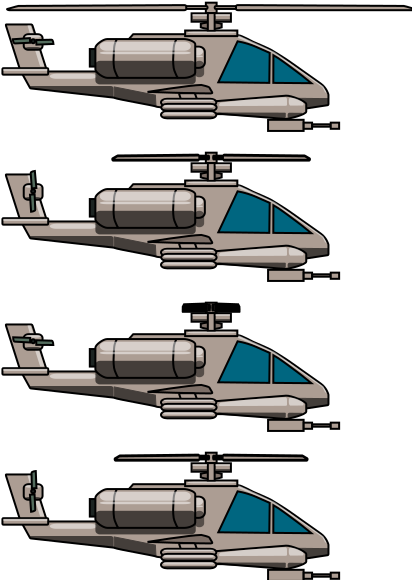
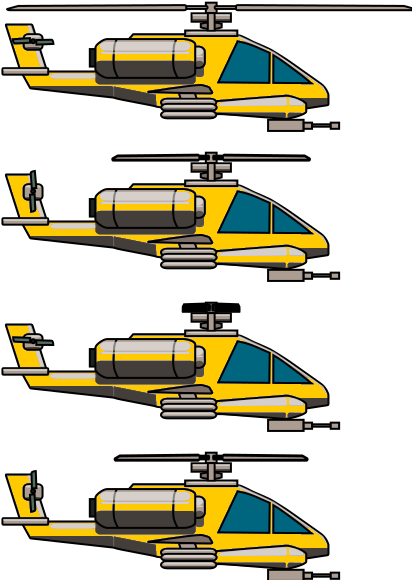
Better render of the helicopter, also stars background added.

diff --git a/flappy-helicopter/main.cpp b/flappy-helicopter/main.cpp
@@ -9,29 +9,43 @@ int main() {
     sf::RenderWindow window(sf::VideoMode(width, height), "Flappy Helicopter");
     window.setVerticalSyncEnabled(true);
 
+    sf::Texture backgroundTexture;
+    if(!backgroundTexture.loadFromFile("./resources/images/stars.jpg")) {
+        std::cout << "Error: Cannot open background image.\n";
+    }
+    sf::Sprite backgroundSprite(backgroundTexture);
+
     bool gameOver = false;
     int score = 0;
     int maxScore = retrieveMaxScore();
 
     sf::Font font;
-    if(!font.loadFromFile("./resources/fonts/arial.ttf")) {
+    if(!font.loadFromFile("./resources/fonts/retroGaming.ttf")) {
         std::cerr << "Couldn't load the font.\n";
         return 1;
     }
     sf::Text scoreText;
     scoreText.setFont(font);
-    scoreText.setCharacterSize(30);
-    scoreText.setFillColor(sf::Color::White);
-    scoreText.setPosition(width - 150, 10);
+    scoreText.setCharacterSize(50);
+    scoreText.setFillColor(sf::Color::Yellow);
     scoreText.setString("Score: " + std::to_string(score));
+
+    sf::FloatRect textBounds = scoreText.getLocalBounds();
+    scoreText.setOrigin(textBounds.left + textBounds.width/2, textBounds.top - textBounds.height);
+
+    float centerX = width / 2;
+    float topY = 0.0f;
+
+    scoreText.setPosition(centerX, topY);
+
 
     sf::Text gameoverText;
     gameoverText.setFont(font);
-    gameoverText.setCharacterSize(45);
-    gameoverText.setFillColor(sf::Color(138, 43, 226));
+    gameoverText.setCharacterSize(70);
+    gameoverText.setFillColor(sf::Color::White);
     gameoverText.setString("Your score: " + std::to_string(score) +
             "\nMax Score: " + std::to_string(maxScore) +
-            "\nPress space to restart.\nPress escape to exit.");
+            "\nspace to restart.\nEscape to exit.");
 
     // Calculate the position to center the text
     sf::FloatRect textRect = gameoverText.getLocalBounds();
@@ -51,7 +65,7 @@ int main() {
     sf::Vector2f pipePosition(pipeStartPositionX, pipeStartPositionY);
      
     
-    Helicopter helicopter(helicopterRadius, helicopterPosition);
+    Helicopter helicopter(helicopterWidth, helicopterHeight, helicopterPosition);
     std::vector<Pipe> pipes;
 
     while(window.isOpen()) {
@@ -66,6 +80,9 @@ int main() {
             }
         }
         window.clear();
+
+        window.draw(backgroundSprite);
+
         if(!gameOver) {
             // Get the elapsed time
             elapsedtime = clock.getElapsedTime();
@@ -109,7 +126,7 @@ int main() {
                 maxScore = score;
                 gameoverText.setString("Your score: " + std::to_string(score) +
                         "\nMax Score: " + std::to_string(maxScore) +
-                        "\nPress space to restart.\nPress escape to exit.");
+                        "\nSpace to restart.\nEscape to exit.");
                 saveMaxScore(maxScore);
                 window.draw(gameoverText);
             }
@@ -125,7 +142,7 @@ int main() {
             }
             gameoverText.setString("Your score: " + std::to_string(score) +
                     "\nMax Score: " + std::to_string(maxScore) +
-                    "\nPress space to restart.\nPress escape to exit.");
+                    "\nSpace to restart.\nEscape to exit.");
             window.draw(gameoverText);
         }
 

diff --git a/flappy-helicopter/helicopter.cpp b/flappy-helicopter/helicopter.cpp
@@ -1,14 +1,14 @@
 #include "helicopter.h"
 
-Helicopter::Helicopter(int radius, sf::Vector2f position) :
+Helicopter::Helicopter(int width, int height, sf::Vector2f position) :
+    m_helicopter(sf::Vector2f(width, height)),
     m_textureRect(0, 0, 0, 0),
-    m_radius(radius),
     m_gravity(0.5f),
     m_upForce(2.5f),
     m_velocity(0.f, 0.f),
     m_isAlive(true),
     m_elapsedTime(0.0f),
-    m_frameDuration(0.1f)
+    m_frameDuration(0.05f)
 {
     m_texture.loadFromFile("./resources/images/helicopter_sheet.png");
     m_textureSize = m_texture.getSize();
@@ -17,9 +17,9 @@ Helicopter::Helicopter(int radius, sf::Vector2f position) :
     m_textureRect.width = m_textureWidth;
     m_textureRect.height = m_textureHeight;
 
-    m_helicopter.setRadius(m_radius);
-    m_helicopter.setOrigin(m_radius, m_radius);
-    m_helicopter.setPosition(position.x - m_radius, position.y - m_radius);
+    sf::FloatRect bounds = m_helicopter.getLocalBounds();
+    m_helicopter.setOrigin(bounds.width / 2, bounds.height / 2);
+    m_helicopter.setPosition(position);
     m_position = m_helicopter.getPosition();
 }
 
@@ -40,12 +40,12 @@ void Helicopter::update() {
 
     m_helicopter.setTexture(&m_texture);
     m_helicopter.setTextureRect(m_textureRect);
-    m_helicopter.setScale(sf::Vector2f(0.8, 0.5));
+    //m_helicopter.setScale(sf::Vector2f(0.8, 0.5));
 
     if (m_isAlive) {
         m_velocity.y += m_gravity;
         m_position += m_velocity;
-        if (m_position.y > height - m_radius || m_position.y < m_radius) {
+        if (m_position.y > height || m_position.y < 0) {
             m_velocity = sf::Vector2f(0.f, 0.f);
             m_isAlive = false;
         }
@@ -59,7 +59,7 @@ void Helicopter::show(sf::RenderWindow& window) {
 }
 
 void Helicopter::setPosition(sf::Vector2f position) {
-    m_helicopter.setPosition(position.x - m_radius, position.y - m_radius);
+    m_helicopter.setPosition(position);
     m_position = m_helicopter.getPosition();
 }
 

diff --git a/flappy-helicopter/params.h b/flappy-helicopter/params.h
@@ -1,18 +1,19 @@
 #pragma once
 
-constexpr int width = 1600;
-constexpr int height = 900;
+constexpr int width = 1920;
+constexpr int height = 1000;
 
 // Bird properties
-constexpr int helicopterRadius = 50;
-constexpr int helicopterStartPositionX = 300;
+constexpr int helicopterWidth = 150;
+constexpr int helicopterHeight = 75;
+constexpr int helicopterStartPositionX = 250;
 constexpr int helicopterStartPositionY = height/2;
 
 
 // Pipe properties
 constexpr int pipeStartPositionX = width;
 constexpr int pipeStartPositionY = 0;
-constexpr int minPipeWidth = 30;
-constexpr int maxPipeWidth = 80;
+constexpr int minPipeWidth = 80;
+constexpr int maxPipeWidth = 160;
 constexpr int minPipeHeight = 30;
-constexpr int maxPipeHeight = height - 5 * helicopterRadius;
+constexpr int maxPipeHeight = height - 3 * helicopterHeight;

diff --git a/flappy-helicopter/helicopter.h b/flappy-helicopter/helicopter.h
@@ -5,7 +5,7 @@
 
 class Helicopter {
     public:
-        Helicopter(int radius, sf::Vector2f position);
+        Helicopter(int width, int height, sf::Vector2f position);
         void up();
         void update();
         void show(sf::RenderWindow& window);
@@ -14,14 +14,13 @@ class Helicopter {
         bool isAlive();
         void revive();
     private:
-        sf::CircleShape m_helicopter;
+        sf::RectangleShape m_helicopter;
         sf::Texture m_texture;
         sf::Vector2u m_textureSize;
         int m_textureWidth;
         int m_textureHeight;
         sf::IntRect m_textureRect;
         sf::Vector2f m_position;
-        int m_radius;
         float m_gravity;
         float m_upForce;
         sf::Vector2f m_velocity;
